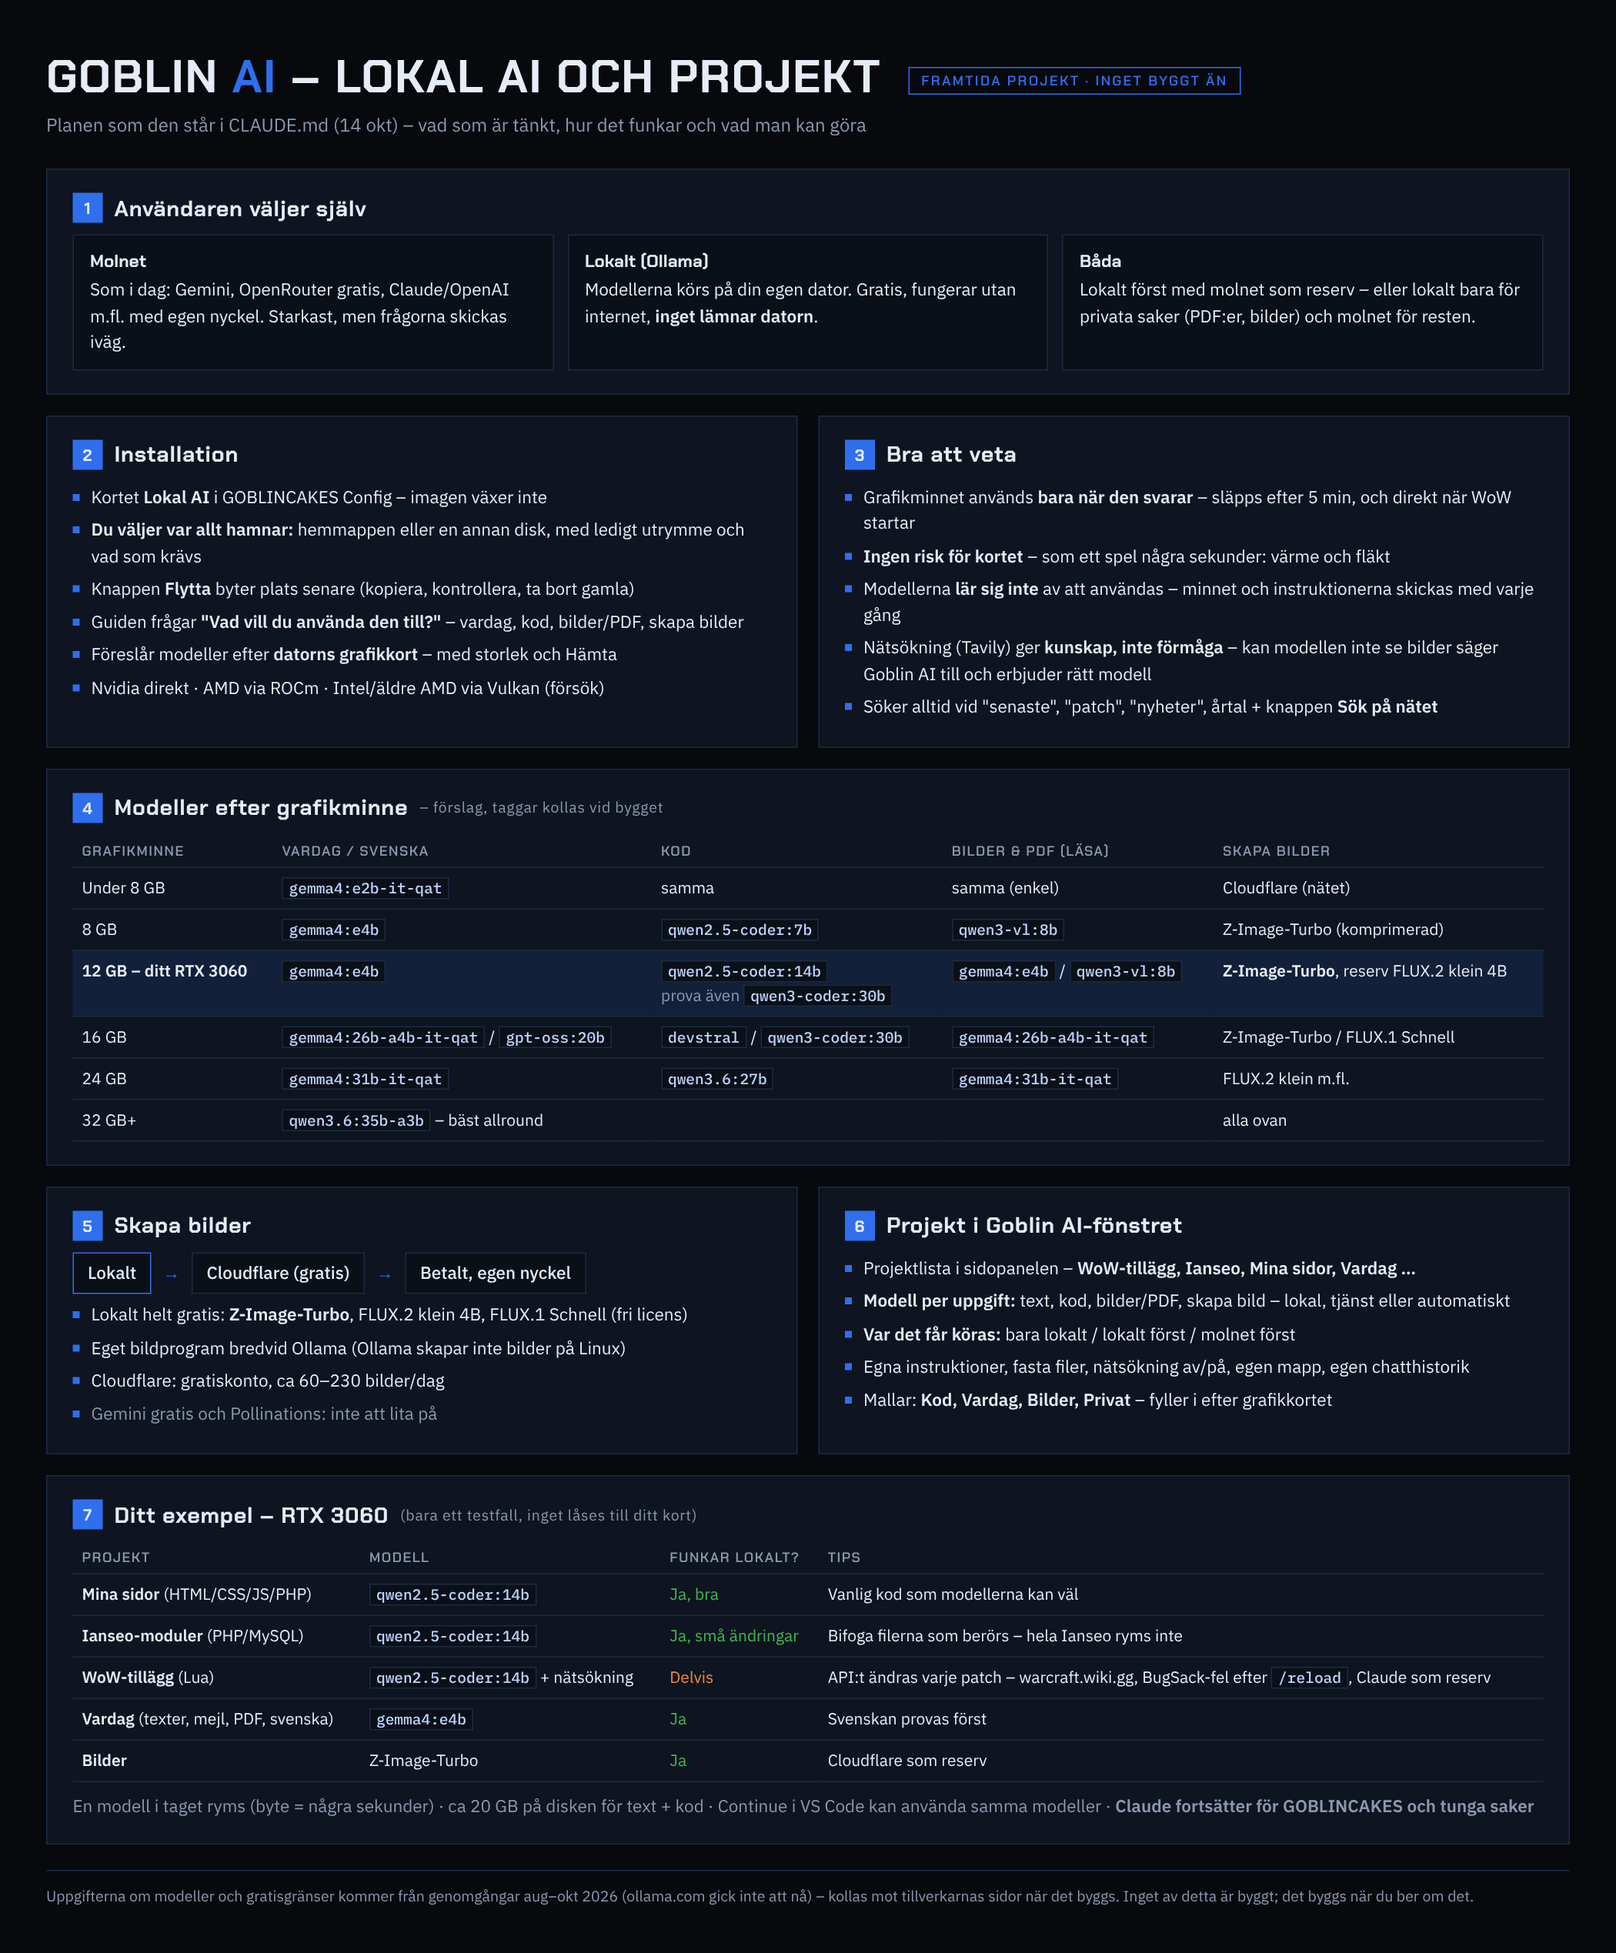
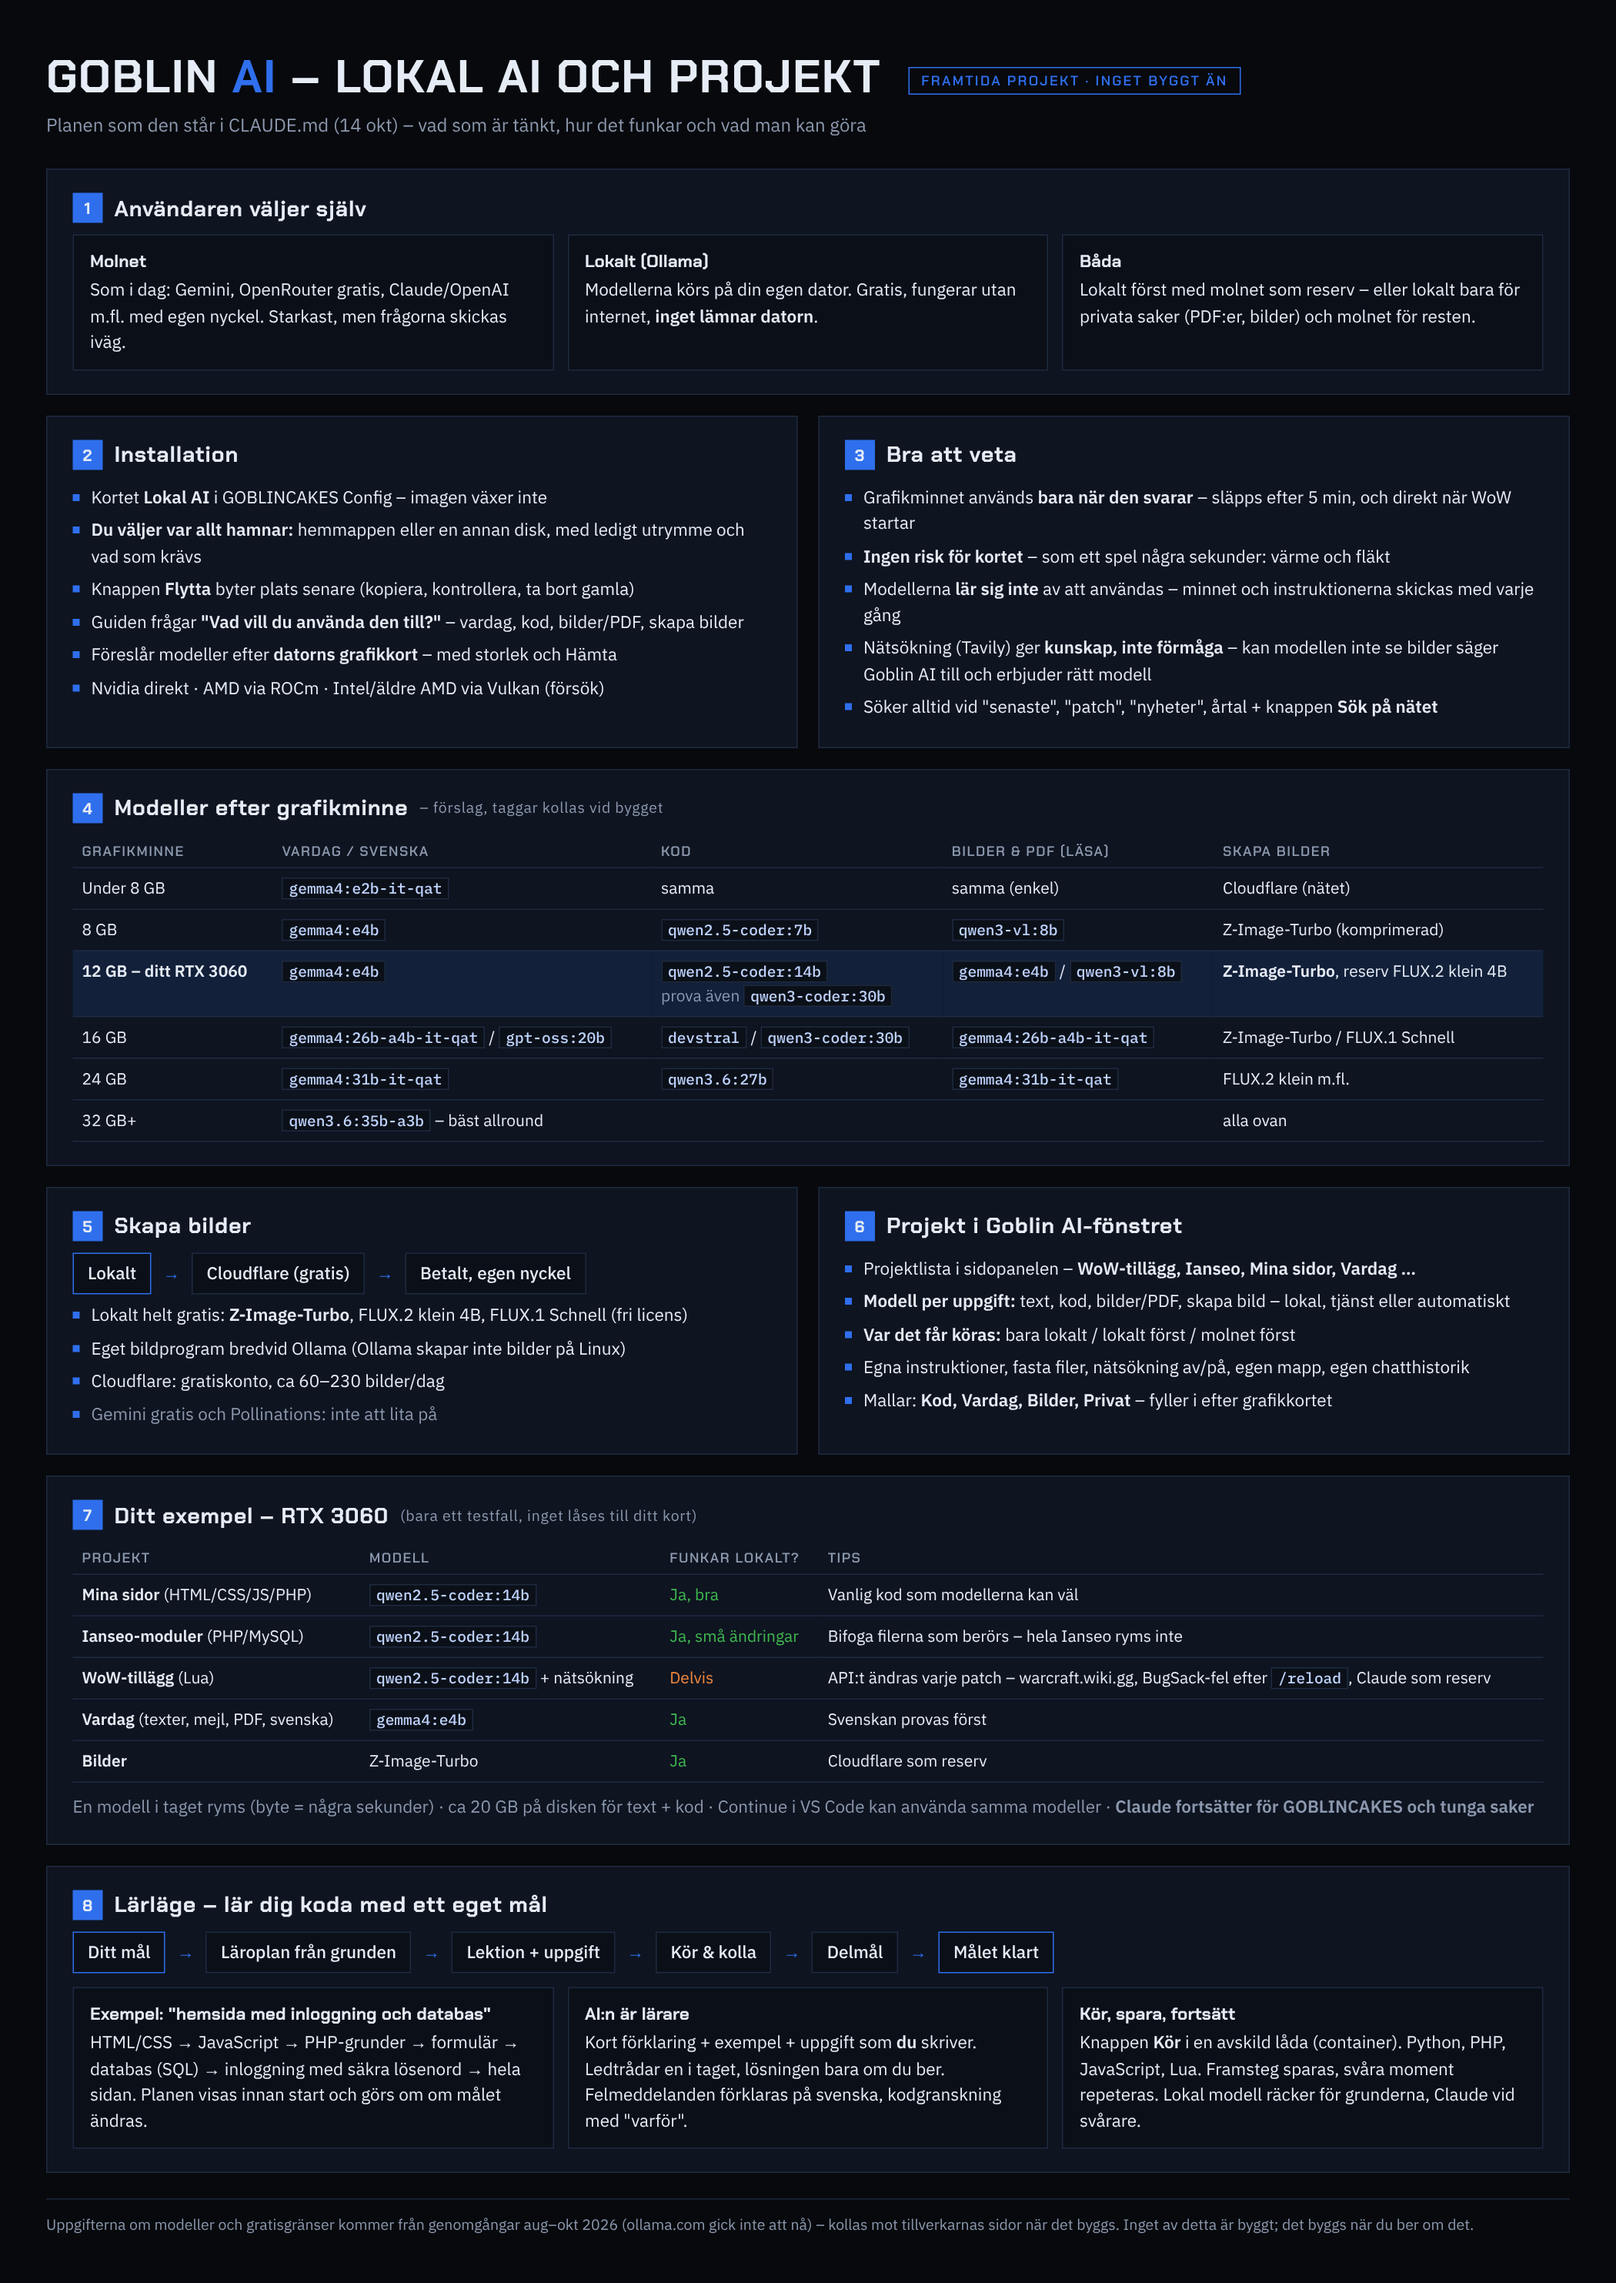
docs: lärläget i översiktsbilden för Goblin AI
Claude-Session: https://claude.ai/code/session_01KkxNUN9kdgkktQQkAE6Zqv

diff --git a/docs/goblin-ai-plan/plan.html b/docs/goblin-ai-plan/plan.html
@@ -118,6 +118,16 @@ tr.me td{background:var(--deep)}
 <div class="m" style="margin-top:10px">En modell i taget ryms (byte = några sekunder) · ca 20 GB på disken för text + kod · Continue i VS Code kan använda samma modeller · <b>Claude fortsätter för GOBLINCAKES och tunga saker</b></div>
 </div>
 
+
+<div class="card wide">
+<h2><b>8</b>Lärläge – lär dig koda med ett eget mål</h2>
+<div class="flow"><span class="step a">Ditt mål</span><span class="arrow">→</span><span class="step">Läroplan från grunden</span><span class="arrow">→</span><span class="step">Lektion + uppgift</span><span class="arrow">→</span><span class="step">Kör &amp; kolla</span><span class="arrow">→</span><span class="step">Delmål</span><span class="arrow">→</span><span class="step a">Målet klart</span></div>
+<div class="three" style="margin-top:12px">
+<div class="opt"><h3>Exempel: "hemsida med inloggning och databas"</h3>HTML/CSS → JavaScript → PHP-grunder → formulär → databas (SQL) → inloggning med säkra lösenord → hela sidan. Planen visas innan start och görs om om målet ändras.</div>
+<div class="opt"><h3>AI:n är lärare</h3>Kort förklaring + exempel + uppgift som <b>du</b> skriver. Ledtrådar en i taget, lösningen bara om du ber. Felmeddelanden förklaras på svenska, kodgranskning med "varför".</div>
+<div class="opt"><h3>Kör, spara, fortsätt</h3>Knappen <b>Kör</b> i en avskild låda (container). Python, PHP, JavaScript, Lua. Framsteg sparas, svåra moment repeteras. Lokal modell räcker för grunderna, Claude vid svårare.</div>
+</div>
+</div>
 </div>
 <div class="foot">Uppgifterna om modeller och gratisgränser kommer från genomgångar aug–okt 2026 (ollama.com gick inte att nå) – kollas mot tillverkarnas sidor när det byggs. Inget av detta är byggt; det byggs när du ber om det.</div>
 </body></html>
